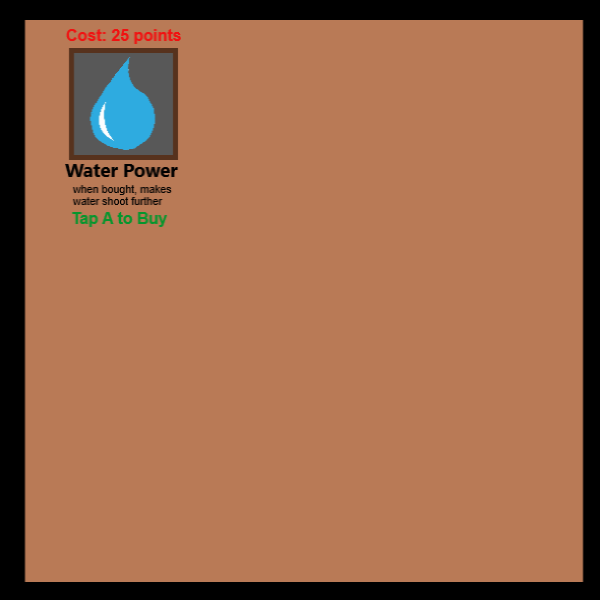
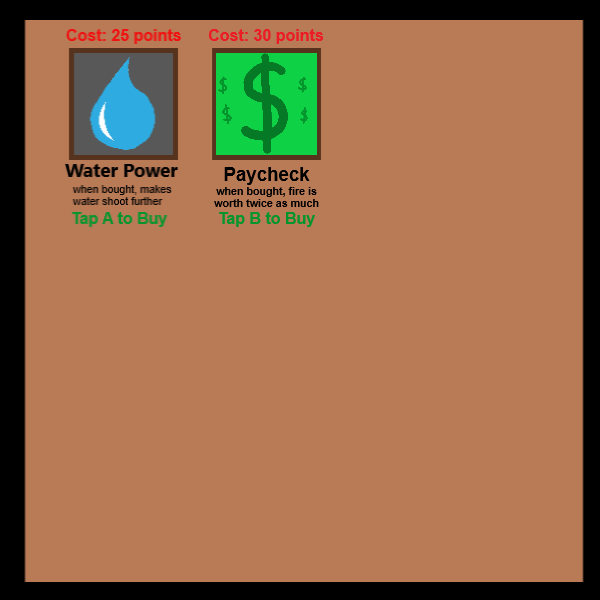
Add files via upload

Changed region(s): [[0.33, 0.03, 0.54, 0.39]]

diff --git a/sketch.js b/sketch.js
@@ -1,8 +1,8 @@
 var firet, firetImage, water, waterImage, waterGroup, house, houseImage, flame, flameImage, flameGroup, flame2, flame2Image, flameGroup2, flame3, flame3Image, flameGroup3;
 var gameState = "pause";
-var item1, score, miss, high, buy, buyImage;
+var item1, score, miss, high, buy, buyImage, item2, buy2, buy2Image;
 var gameState = "play";
-var shop, shopImage, timeball;
+var shop, shopImage, timeball, timeball2;
 
 function preload() {
   firetImage = loadImage("firetruck.png");
@@ -13,14 +13,16 @@ function preload() {
   flame3Image = loadImage("fire3.png");
   shopImage = loadImage("shop.png");
   buyImage = loadImage("buy.png");
+  buy2Image=loadImage("buy2.png");
 }
 
 
 function setup() {
   createCanvas(600, 600);
   timeball = createSprite(0, 0, 10, 10);
+  timeball2= createSprite(0,0,10,10);
 
-
+  
 
   house = createSprite(300, 300, 600, 600);
   house.addImage(houseImage);
@@ -41,16 +43,24 @@ function setup() {
   buy = createSprite(124, 104, 109, 112);
   buy.addImage(buyImage);
   buy.visible = false;
+  
+  buy2=createSprite(267,104,109,112);
+  buy2.addImage(buy2Image);
+  buy2.visible=false;
 
   flameGroup = new Group();
   waterGroup = new Group();
   water2Group = new Group();
   flameGroup2 = new Group();
   flameGroup3 = new Group();
+  flameGroup1_1= new Group();
+  flameGroup1_2= new Group();
+  flameGroup1_3= new Group();
   score = 0;
   miss = 0;
   high = 0;
   item1 = 0;
+  item2=0;
 }
 
 function draw() {
@@ -64,8 +74,8 @@ function draw() {
 
     shop.visible = false;
     buy.visible = false;
-
-    if (keyDown("B")) {
+buy2.visible = false;
+    if (keyDown("S")) {
       gameState = "pause";
     }
     if (keyDown("LEFT")) {
@@ -79,6 +89,9 @@ function draw() {
     flame();
     flame2();
     flame3();
+    flame1_1()
+    flame1_2()
+    flame1_3()
     if (flameGroup.isTouching(waterGroup)) {
       flameGroup.destroyEach();
       waterGroup.destroyEach();
@@ -139,10 +152,73 @@ function draw() {
 
     }
 
+  if (flameGroup1_1.isTouching(waterGroup)) {
+      flameGroup1_1.destroyEach();
+      waterGroup.destroyEach();
+      score = score + 2;
+    }
+
+    if (flameGroup1_2.isTouching(waterGroup)) {
+      flameGroup1_2.destroyEach();
+      waterGroup.destroyEach();
+      score = score + 6;
+    }
+    if (flameGroup1_3.isTouching(waterGroup)) {
+      flameGroup1_3.destroyEach();
+      waterGroup.destroyEach();
+      score = score + 10;
+    }
+    if (flameGroup1_1.isTouching(water2Group)) {
+      flameGroup1_1.destroyEach();
+      water2Group.destroyEach();
+      score = score + 2;
+    }
+
+    if (flameGroup1_2.isTouching(water2Group)) {
+      flameGroup1_2.destroyEach();
+      water2Group.destroyEach();
+      score = score + 6;
+    }
+    if (flameGroup1_3.isTouching(water2Group)) {
+      flameGroup1_3.destroyEach();
+      water2Group.destroyEach();
+      score = score + 10;
+    }
+
+    if (flameGroup1_1.isTouching(bar)) {
+      if (high < score) {
+        high = score;
+      }
+      score = score = 0;
+      flameGroup1_1.destroyEach();
+      miss = miss + 1;
+    }
+    if (flameGroup1_2.isTouching(bar)) {
+      if (high < score) {
+        high = score;
+      }
+      score = score = 0;
+      flameGroup1_2.destroyEach();
+      miss = miss + 1;
+
+    }
+    if (flameGroup1_3.isTouching(bar)) {
+      if (high < score) {
+        high = score;
+      }
+      score = score = 0;
+      flameGroup1_3.destroyEach();
+      miss = miss + 1;
+
+    }
+    
   }
   if (gameState === "pause") {
     if (timeball > 1) {
       buy.visible = true;
+    }
+    if (timeball2 > 1) {
+      buy2.visible = true;
     }
     shop.visible = true;
 
@@ -153,6 +229,13 @@ function draw() {
       timeball = timeball.x + 10;
 
     }
+    
+    if (keyDown("B") && (score >= 30) && (timeball2.x < 1)) {
+      item2 = item2 + 1;
+      score = score - 30;
+      timeball2 = timeball2.x + 10;
+
+    }
 
     if (keyDown("C")) {
       gameState = "play";
@@ -161,7 +244,11 @@ function draw() {
     flameGroup.destroyEach();
     flameGroup2.destroyEach();
     flameGroup3.destroyEach();
-
+    flameGroup1_1.destroyEach();
+    flameGroup1_2.destroyEach();
+    flameGroup1_3.destroyEach();
+  waterGroup.destroyEach();
+    water2Group.destroyEach();
   }
 
   drawSprites();
@@ -179,7 +266,7 @@ function draw() {
 
 
 function flame() {
-  if (frameCount % 50 === 0) {
+ if(item2===0){ if (frameCount % 50 === 0) {
     var flame = createSprite(200, -140)
     flame.x = Math.round(random(100, 400))
     flame.addImage(flameImage)
@@ -194,9 +281,9 @@ function flame() {
     flameGroup.add(flame);
   }
 }
-
+}
 function flame2() {
-  if (score > 10) {
+  if(item2===0){if (score > 10) {
     if (frameCount % 300 === 0) {
       var flame2 = createSprite(200, -140)
       flame2.x = Math.round(random(100, 400))
@@ -213,9 +300,9 @@ function flame2() {
     }
   }
 }
-
+}
 function flame3() {
-  if (score > 25) {
+ if(item2===0){ if (score > 25) {
     if (frameCount % 500 === 0) {
       var flame3 = createSprite(200, -140)
       flame3.x = Math.round(random(100, 400))
@@ -232,7 +319,63 @@ function flame3() {
     }
   }
 }
+}
 
+function flame1_1() {
+  if(item2===1){if (frameCount % 50 === 0) {
+    var flame1_1 = createSprite(200, -140)
+    flame1_1.x = Math.round(random(100, 400))
+    flame1_1.addImage(flameImage)
+    flame1_1.scale = 0.08;
+    flame1_1.velocityY = 10;
+    flame1_1.lifetime = 900;
+    flame1_1.setCollider("circle", 0, 150, 240);
+    flame1_1.debug = false;
+    if (score > 50) {
+      flame1_1.velocityY = 15;
+    }
+    flameGroup1_1.add(flame1_1);
+  }
+}
+}
+function flame1_2() {
+   if(item2===1){if (score > 10) {
+    if (frameCount % 300 === 0) {
+      var flame1_2 = createSprite(200, -140)
+      flame1_2.x = Math.round(random(100, 400))
+      flame1_2.addImage(flame2Image)
+      flame1_2.scale = 0.08;
+      flame1_2.velocityY = 15;
+      flame1_2.lifetime = 900;
+      flame1_2.setCollider("circle", 0, 150, 240);
+      flame1_2.debug = false;
+      if (score > 50) {
+        flame1_2.velocityY = 20;
+      }
+      flameGroup1_2.add(flame1_2);
+    }
+  }
+}
+}
+function flame1_3() {
+  if(item2===1){ if (score > 25) {
+    if (frameCount % 500 === 0) {
+      var flame1_3 = createSprite(200, -140)
+      flame1_3.x = Math.round(random(100, 400))
+      flame1_3.addImage(flame3Image)
+      flame1_3.scale = 0.08;
+      flame1_3.velocityY = 20;
+      flame1_3.lifetime = 900;
+      flame1_3.setCollider("circle", 0, 150, 240);
+      flame1_3.debug = false;
+      if (score > 50) {
+        flame1_3.velocityY = 25;
+      }
+      flameGroup1_3.add(flame1_3);
+    }
+  }
+}
+}
 function water() {
   if (item1 === 0) {
     if (keyDown("space")) {
